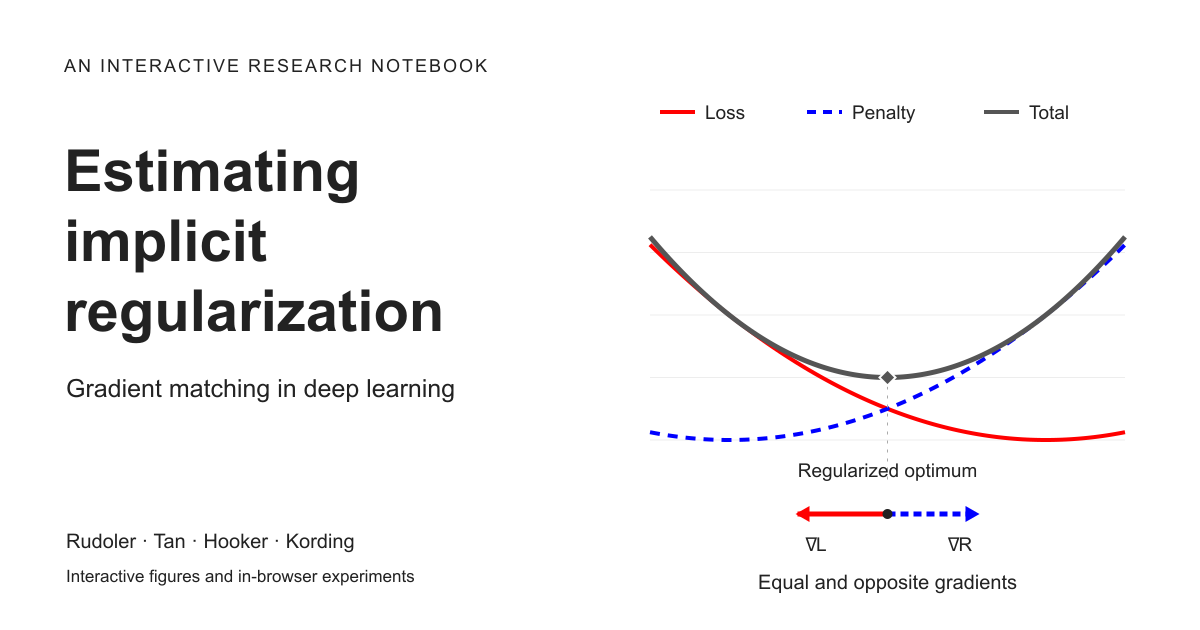
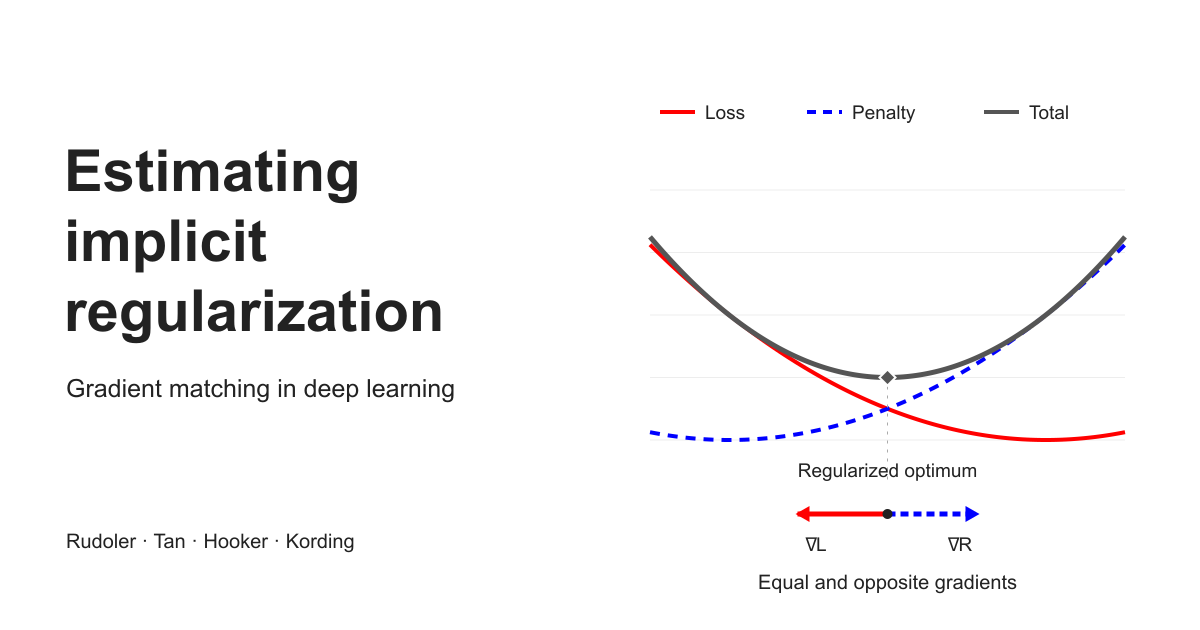
Remove self-referential copy and redundant figure text

Changed region(s): [[0.0617, 0.0905, 0.4008, 0.1206], [0.0617, 0.9048, 0.3392, 0.9349]]

diff --git a/site/index.html b/site/index.html
@@ -2,12 +2,12 @@
 <html lang="en">
 <head>
 <meta charset="utf-8"><meta name="viewport" content="width=device-width,initial-scale=1">
-<meta name="description" content="An interactive guide to estimating implicit regularization: balance gradients, explore a loss landscape, and recover an explicit penalty in a neural network.">
+<meta name="description" content="Estimating explicit and implicit regularization by matching loss and regularizer gradients.">
 <title>Estimating implicit regularization in deep learning</title>
 <link rel="canonical" href="https://jrudoler.com/estimating-implicit-regularization/">
 <meta property="og:type" content="website">
 <meta property="og:title" content="Estimating implicit regularization in deep learning">
-<meta property="og:description" content="Explore how gradient matching estimates regularization through interactive figures and neural networks that train in your browser.">
+<meta property="og:description" content="Gradient matching estimates regularization parameters and tests whether an explicit penalty reproduces learned weights.">
 <meta property="og:url" content="https://jrudoler.com/estimating-implicit-regularization/">
 <meta property="og:image" content="https://jrudoler.com/estimating-implicit-regularization/assets/social-preview.png">
 <meta property="og:image:width" content="1200">
@@ -15,7 +15,7 @@
 <meta property="og:image:alt" content="Loss, penalty, and total objective curves, with equal and opposite gradients at the regularized optimum.">
 <meta name="twitter:card" content="summary_large_image">
 <meta name="twitter:title" content="Estimating implicit regularization in deep learning">
-<meta name="twitter:description" content="An interactive research notebook on gradient matching and regularization.">
+<meta name="twitter:description" content="Estimating explicit and implicit regularization from model weights and loss gradients.">
 <meta name="twitter:image" content="https://jrudoler.com/estimating-implicit-regularization/assets/social-preview.png">
 <meta name="twitter:image:alt" content="Loss and penalty gradients cancel at the minimum of their combined objective.">
 
@@ -26,19 +26,16 @@
 <header class="masthead"><a class="wordmark" href="#">IMPLICIT REGULARIZATION</a><a href="https://github.com/jrudoler/estimating-implicit-regularization">Code <span aria-hidden="true">↗</span></a></header>
 <main>
 <section class="hero">
-<div class="eyebrow">ESTIMATING IMPLICIT REGULARIZATION IN DEEP LEARNING</div>
 <h1>Estimating implicit regularization in deep learning</h1>
 <p class="dek">Information about implicit regularization is embedded in the dynamics of learning. We use gradients of the loss and a proposed regularizer to estimate its unknown parameters.</p>
 <div class="byline">Joseph H. Rudoler · Kevin Tan · Giles Hooker · Konrad P. Kording</div>
-<a class="start-link" href="#balance">Explore gradient matching <span aria-hidden="true">↓</span></a>
-<div class="hero-equation" aria-label="The gradient of the loss plus the gradient of the regularizer equals zero"><span class="loss">∇L</span><span>+</span><span class="reg">∇R</span><span>=</span><span class="total">0</span></div>
 </section>
-<div class="opening-prose"><p>We often explicitly regularize models, adding constraints that can improve generalization. We also implicitly regularize through algorithmic and architectural choices, such as early stopping or dropout. Theory can characterize these effects in simplified settings, but complex networks raise the need for empirical estimation and validation.</p><p>Our task is to find a mathematically expressible regularizer such that explicitly optimizing the empirical loss augmented by that regularizer mimics an implicitly biased procedure optimizing the loss alone. Given a parametric family of regularizers, we seek to estimate its parameters. The examples below develop this gradient-matching approach, first for known explicit penalties and then for early stopping.</p></div>
+<div class="opening-prose"><p>We often explicitly regularize models, adding constraints that can improve generalization. We also implicitly regularize through algorithmic and architectural choices, such as early stopping or dropout. Theory can characterize these effects in simplified settings, but complex networks raise the need for empirical estimation and validation.</p><p>Our task is to find a mathematically expressible regularizer such that explicitly optimizing the empirical loss augmented by that regularizer mimics an implicitly biased procedure optimizing the loss alone. Given a parametric family of regularizers, we seek to estimate its parameters.</p></div>
 <nav class="chapter-nav" aria-label="Chapters"><a href="#balance">01 / Balancing objective functions</a><a href="#inverse">02 / Estimating the penalty</a><a href="#network">03 / Recovering explicit regularization</a><a href="#early-stopping">04 / Implicit regularization</a></nav>
 <section id="balance" class="chapter">
-<div class="section-intro"><div class="eyebrow">01 — BALANCING OBJECTIVE FUNCTIONS</div><h2>Regularization changes the optimum.</h2><p>Regularization modifies the objective function, leading to different solutions than strictly minimizing the empirical loss. In this example, an L₂ penalty favors smaller weights. At the regularized minimum, its gradient counteracts the nonzero loss gradient. This relationship is the starting point for estimation.</p></div>
+<div class="section-intro"><div class="eyebrow">01 — BALANCING OBJECTIVE FUNCTIONS</div><h2>Regularization changes the optimum.</h2><p>Regularization modifies the objective function, leading to different solutions than strictly minimizing the empirical loss. In this example, an L₂ penalty favors smaller weights. At the regularized minimum, its gradient counteracts the nonzero loss gradient.</p></div>
 <div class="lab balance-lab">
-<div class="lab-top"><div><span class="live-dot"></span> Figure 1 · Loss, L₂ penalty, and their sum <span class="subtle">/ one parameter</span></div><div class="legend"><span class="loss"><i class="legend-key" aria-hidden="true"></i>Loss</span><span class="reg"><i class="legend-key" aria-hidden="true"></i>Penalty</span><span class="total"><i class="legend-key" aria-hidden="true"></i>Total</span></div></div>
+<div class="lab-top"><div>Figure 1 · Loss, L₂ penalty, and their sum <span class="subtle">/ one parameter</span></div><div class="legend"><span class="loss"><i class="legend-key" aria-hidden="true"></i>Loss</span><span class="reg"><i class="legend-key" aria-hidden="true"></i>Penalty</span><span class="total"><i class="legend-key" aria-hidden="true"></i>Total</span></div></div>
 <div class="plot-wrap"><canvas id="balance-chart" aria-label="Loss, regularization, and their sum as functions of one parameter. Drag to inspect a parameter value." role="img"></canvas></div>
 <div class="gradient-panel"><div class="gradient-heading">Gradients at the selected point <span>Arrow length uses the same scale for both gradients.</span></div><canvas id="gradient-chart" role="img" aria-label="Loss, penalty, and net gradients shown as labeled horizontal arrows on a shared scale. Opposing equal arrows cancel."></canvas></div>
 <div class="control-grid"><label>Penalty strength <output id="lambda-value">0.50</output><input aria-label="Penalty strength" id="lambda" type="range" min="0" max="2" step="0.01" value="0.5"></label><label>Inspect parameter θ <output id="theta-value">1.00</output><input aria-label="Inspect parameter theta" id="theta" type="range" min="-1" max="3" step="0.01" value="1"></label><div class="landscape-actions"><button id="find-balance" class="primary">Find the balance <span aria-hidden="true">→</span></button><button id="random-balance" class="secondary">Random initialization</button></div></div>
@@ -76,12 +73,12 @@
 <p>For the reference update −η∇L(θₜ), rearranging Δθₜ ≈ −η[∇L(θₜ) + ∇R(θₜ; Λ)] gives:</p>
 <div class="display-equation"><math display="block" aria-label="The regularizer gradient is approximately minus the observed update divided by the learning rate minus the loss gradient"><mrow><msub><mi>∇</mi><mi>θ</mi></msub><mi>R</mi><mo>(</mo><msub><mi>θ</mi><mi>t</mi></msub><mo>;</mo><mi>Λ</mi><mo>)</mo><mo>≈</mo><mo>−</mo><mfrac><mrow><mi>Δ</mi><msub><mi>θ</mi><mi>t</mi></msub></mrow><mi>η</mi></mfrac><mo>−</mo><msub><mi>∇</mi><mi>θ</mi></msub><mi>L</mi><mo>(</mo><msub><mi>θ</mi><mi>t</mi></msub><mo>)</mo></mrow></math></div>
 <p>Here Δθₜ = θₜ₊₁ − θₜ and η is the step size. We can fit the same coefficient across several updates, or estimate a changing coefficient at each step. Setting Δθₜ ≈ 0 recovers the endpoint-matching condition.</p>
-<p>The reference must match the question. Comparing ordinary full-batch GD with its own update −η∇L gives zero discrepancy. To study the effect of finite GD steps, the paper instead compares a discrete step with continuous gradient flow over the same time interval. The early-stopping interactive below uses <em>endpoint matching</em> at different iterates; it does not fit these update discrepancies.</p>
+<p>The reference must match the question. Comparing ordinary full-batch GD with its own update −η∇L gives zero discrepancy. To study the effect of finite GD steps, the paper instead compares a discrete step with continuous gradient flow over the same time interval. Figure 5 uses <em>endpoint matching</em> at different iterates; it does not fit these update discrepancies.</p>
 </div></details>
 <section id="landscape" class="method-subsection">
-<div class="section-intro"><h3>Gradient matching in multiple dimensions.</h3><p>A single slope becomes a vector. At the regularized optimum, the loss and penalty gradients point in opposite directions with equal magnitude. The selected point starts at the loss minimum. Click “Go to optimum” to move it to the minimum of the combined objective in both views. Change the penalty or click the contour plot to explore another point.</p></div>
+<div class="section-intro"><h3>Gradient matching in multiple dimensions.</h3><p>A single slope becomes a vector. At the regularized optimum, the loss and penalty gradients point in opposite directions with equal magnitude. The selected point starts at the loss minimum. Click “Go to optimum” to move it to the minimum of the combined objective in both views. Click the contour plot to select a point.</p></div>
 <div class="lab">
-<div class="lab-top"><span>Figure 3 · Two parameters <span class="subtle">/ linked views</span></span><div class="legend"><span class="loss"><i class="legend-key" aria-hidden="true"></i>∇L</span><span class="reg"><i class="legend-key" aria-hidden="true"></i>∇R</span><span class="total"><i class="legend-key" aria-hidden="true"></i>Net</span></div></div>
+<div class="lab-top"><span>Figure 3 · Two parameters </span><div class="legend"><span class="loss"><i class="legend-key" aria-hidden="true"></i>∇L</span><span class="reg"><i class="legend-key" aria-hidden="true"></i>∇R</span><span class="total"><i class="legend-key" aria-hidden="true"></i>Net</span></div></div>
 <div class="landscape-layers"><fieldset><legend>Show landscapes in both views</legend><label class="loss"><input id="show-loss" type="checkbox"> Loss L (solid)</label><label class="reg"><input id="show-penalty" type="checkbox"> Penalty R (dashed)</label><label class="total"><input id="show-total" type="checkbox" checked> Total L + R (thick)</label></fieldset><label>Overlay opacity α <output id="landscape-alpha-value">0.55</output><input id="landscape-alpha" aria-label="Landscape opacity" type="range" min="0.1" max="1" step="0.05" value="0.55"></label></div>
 <div class="landscape-plots"><div class="plot-wrap"><span class="plot-label">CONTOURS <small>click to move the point</small></span><canvas id="contour-chart" role="img" aria-label="Selected loss, penalty, and total contours with uphill gradient vectors."></canvas></div><div class="plot-wrap"><span class="plot-label">SURFACES <small>drag to rotate · same selected point</small></span><canvas id="surface-chart" role="img" aria-label="Rotatable loss, penalty, and total wireframe surfaces with shared height scale."></canvas></div></div>
 <div class="control-grid landscape-controls"><label>Penalty λ <output id="lambda2-value"></output><input aria-label="Landscape penalty strength" id="lambda2" type="range" min="0" max="2" step="0.01" value="0.5"></label><label>Loss elongation <output id="stretch-value"></output><input aria-label="Loss elongation" id="stretch" type="range" min="1" max="6" step="0.1" value="3"></label><label>Loss rotation <output id="angle-value"></output><input aria-label="Loss rotation in degrees" id="angle" type="range" min="0" max="180" step="1" value="34"></label><div class="landscape-actions"><button id="snap2" class="primary">Go to optimum</button><button id="reset2" class="secondary">Start at loss minimum</button><button id="random-landscape" class="secondary">Random initialization</button></div></div>
@@ -96,25 +93,25 @@
 <div class="section-intro"><div class="eyebrow">03 — RECOVERING EXPLICIT REGULARIZATION</div><h2>Recovering an L₂ penalty in a neural network.</h2><p>Before estimating implicit effects, we test whether the method recovers known explicit regularization. Train a small network on noisy samples of a curve, using tanh by default or ReLU for piecewise-linear predictions. We train with an explicit L₂ penalty and withhold its coefficient from the estimator. The estimate uses only the weights and the gradient of the <em>unregularized</em> training loss. During training, this endpoint estimate may be inaccurate because the gradients have not yet reached a balance.</p></div>
 <p class="small-note">This is a simplified version of the paper’s explicit elastic-net recovery experiment. Here we estimate one L₂ coefficient in a small, single-input network. The paper jointly estimates smoothed L₁ and L₂ coefficients in a 200-unit ReLU network with 10 inputs, across repeated datasets and penalty settings.</p>
 <div class="lab network-lab">
-<div class="lab-top"><span><span class="live-dot"></span> Figure 4 · Explicit L₂ penalty recovery</span><span class="subtle" id="network-summary">1 input → 16 tanh units → 1 output · 49 parameters</span></div>
-<div class="network-layout"><div class="plot-wrap"><canvas id="network-chart" role="img" aria-label="Training samples, the noiseless target function, and the neural network's current prediction."></canvas><div class="legend chart-legend"><span class="data-color">● Training data</span><span class="subtle">┄ Target</span><span class="total">━ Network</span></div></div><div class="experiment-panel"><div class="eyebrow">Estimated regularization</div><div class="estimate-big" id="estimate">—</div><p class="metric-caption">estimated penalty strength</p><div class="metric-row"><span>True λ</span><strong id="true-lambda">0.0150</strong></div><div class="metric-row"><span>Gradient explained</span><strong id="explained">—</strong></div><div class="meter"><div id="explained-meter"></div></div><div class="metric-row"><span>Training MSE</span><strong id="train-loss">—</strong></div><div class="metric-row"><span>Net gradient norm</span><strong id="stationarity">—</strong></div><p id="recovery-note" class="small-note">Watch the estimate settle as the network approaches a stationary point.</p></div></div>
+<div class="lab-top"><span>Figure 4 · Explicit L₂ penalty recovery</span><span class="subtle" id="network-summary">1 input → 16 tanh units → 1 output · 49 parameters</span></div>
+<div class="network-layout"><div class="plot-wrap"><canvas id="network-chart" role="img" aria-label="Training samples, the noiseless target function, and the neural network's current prediction."></canvas><div class="legend chart-legend"><span class="data-color">● Training data</span><span class="subtle">┄ Target</span><span class="total">━ Network</span></div></div><div class="experiment-panel"><div class="eyebrow">Estimated λ</div><div class="estimate-big" id="estimate">—</div><div class="metric-row"><span>True λ</span><strong id="true-lambda">0.0150</strong></div><div class="metric-row"><span>Gradient explained</span><strong id="explained">—</strong></div><div class="meter"><div id="explained-meter"></div></div><div class="metric-row"><span>Training MSE</span><strong id="train-loss">—</strong></div><div class="metric-row"><span>Net gradient norm</span><strong id="stationarity">—</strong></div><p id="recovery-note" class="small-note"></p></div></div>
 <div class="training-progress"><div id="training-bar"></div></div>
 <div class="network-settings"><label>Hidden-layer width<select id="network-width"><option value="16">16 units</option><option value="32">32 units</option><option value="64">64 units</option></select></label><label>Activation<select id="network-activation"><option value="relu">ReLU (piecewise linear)</option><option value="tanh" selected>tanh (smooth)</option></select></label><label>Penalty strength<select id="penalty-choice"><option value="0.005">Weak (0.005)</option><option value="0.015" selected>Moderate (0.015)</option><option value="0.05">Strong (0.05)</option></select></label><label>Data seed<select id="seed"><option>7</option><option>19</option><option>42</option></select></label></div>
 <p id="network-shape-note" class="small-note"></p>
 <div class="experiment-actions"><button id="train" class="primary">Train the network <span aria-hidden="true">→</span></button><button id="reset" class="secondary">Reset</button><button id="random-network" class="secondary">Random initialization</button></div>
 <p class="point-status">Network initialization seed: <output id="init-seed-value">7</output>. Random initialization keeps the data and penalty fixed.</p>
-<p id="train-status" role="status" class="train-status">Ready. Training runs locally; training data stays in your browser.</p>
+<p id="train-status" role="status" class="train-status"></p>
 </div>
 <details class="methods"><summary>Model, training, and estimator</summary><div><p>We use mean squared error L = (1/n) Σ(fθ(xᵢ) − yᵢ)² and R = λ‖θ‖², penalizing all parameters, including biases (3 × width + 1 parameters). Full-batch gradient descent runs for up to 20,000 steps. The learning rate is 0.04 × 16 / width (0.04, 0.02, or 0.01) to keep wider networks stable. The data and initialization are reproducible for each seed.</p><p class="formula">λ̂ = max(0, −θᵀ∇L / (2‖θ‖²))</p><p>This is a nonnegative least-squares projection of −∇L onto 2θ. “Gradient explained” is 1 − ‖∇L + 2λ̂θ‖² / ‖∇L‖². It is a fit diagnostic, not predictive R². Near-zero weights make the coefficient unidentifiable; a near-zero loss gradient makes the explained fraction uninformative. We display a dash for unavailable diagnostics.</p><p>For ReLU, we use a zero derivative at a kink. Tanh uses its smooth derivative, 1 − tanh²(z). Finite training time and nonsmoothness can leave a residual even when the loss appears stable. This experiment demonstrates explicit-penalty recovery, not proof that an arbitrary implicit bias is ridge regularization.</p></div></details>
 </section>
 <section id="early-stopping" class="chapter">
 <div class="section-intro"><div class="eyebrow">04 — IMPLICIT REGULARIZATION</div><h2>Estimating the regularization from stopping early.</h2>
-<p>Theory gives us a concrete example of implicit regularization: for ordinary least squares (OLS), gradient descent stopped after a finite number of steps from zero initialization has the same solution as an explicitly regularized regression. The equivalent penalty is quadratic, R(θ) = θᵀΛ⁽ᵗ⁾θ, with a closed-form matrix Λ⁽ᵗ⁾ determined by the data, step size, and stopping time. This is why we estimate a matrix here: theory supplies a known target against which to test gradient matching.</p>
+<p>Theory gives us a concrete example of implicit regularization: for ordinary least squares (OLS), gradient descent stopped after a finite number of steps from zero initialization has the same solution as an explicitly regularized regression. The equivalent penalty is quadratic, R(θ) = θᵀΛ⁽ᵗ⁾θ, with a closed-form matrix Λ⁽ᵗ⁾ determined by the data, step size, and stopping time. This matrix is the target for gradient matching.</p>
 <p>Following Figure 4 of the paper, we ask two different questions: can we recover that theoretical matrix, and can an estimated penalty recover the original model weights? A diagonal estimate from one endpoint can recover the weights while differing from theory (panel C). A full symmetric estimate uses multiple endpoints to recover the matrix (panel B). A single ridge coefficient provides a heuristic summary of how regularization decays over training (panel E).</p></div>
 <details class="methods"><summary>The theoretical quadratic penalty and closed-form OLS solution</summary><div>
 <p>Let H = XᵀX/n = V diag(hᵢ)Vᵀ and use the loss L(θ) = ‖Xθ − y‖²/(2n). Full-batch gradient descent starts at zero with step size η satisfying 0 &lt; ηhᵢ &lt; 1. At step t ≥ 1, its weights minimize L(θ) + θᵀΛ⁽ᵗ⁾θ, where</p>
 <p class="equation">Λ⁽ᵗ⁾ = ½ V diag[hᵢ(1 − ηhᵢ)ᵗ / (1 − (1 − ηhᵢ)ᵗ)] Vᵀ.</p>
-<p>The eigenvectors give the penalty’s directions, and its eigenvalues decrease over training. The matrix is generally not diagonal in the original input coordinates. The factor ½ reflects this interactive’s half-MSE loss convention; the paper writes its theoretical penalty with the loss ‖Xθ − y‖²/n.</p>
+<p>The eigenvectors give the penalty’s directions, and its eigenvalues decrease over training. The matrix is generally not diagonal in the original input coordinates. The factor ½ reflects the half-MSE loss convention used here; the paper writes its theoretical penalty with the loss ‖Xθ − y‖²/n.</p>
 <p>For any estimated symmetric matrix Λ̂, the explicit solution is θ̂ᴿ = (H + 2Λ̂)⁻¹Xᵀy/n, provided H + 2Λ̂ is positive definite. We solve this system independently to test weight recovery. The estimator receives weights and loss gradients, not the theoretical matrix or its eigenvectors.</p>
 </div></details>
 <div class="lab">
@@ -122,14 +119,14 @@
 <div class="control-grid early-controls"><label>Training step <output id="early-step-value">20</output><input id="early-step" aria-label="Early stopping training step" type="range" min="1" max="400" step="1" value="20"></label><label>Candidate penalty<select id="early-family"><option value="diagonal">Diagonal · one endpoint (4C)</option><option value="full" selected>Full symmetric · multiple endpoints (4B)</option><option value="scalar">Scalar ridge · one coefficient (4E)</option></select></label><label>Hessian condition number<select id="early-condition"><option value="1">1 — equal curvature</option><option value="5" selected>5 — moderate curvature variation</option><option value="25">25 — unequal curvature</option><option value="100">100 — unequal curvature</option></select></label></div><label id="early-endpoints-control" class="early-endpoint-control" hidden>Training endpoints <output id="early-endpoints-value">10</output><input id="early-endpoints" aria-label="Number of training endpoints" type="range" min="1" max="20" value="10"><span class="small-note">Same X and stopping step; independently sampled coefficients and noise. The first endpoint is shown in the weight plot.</span></label><div class="experiment-actions"><button id="early-play" class="primary">Play training</button><button id="early-reset" class="secondary">Reset to zero initialization</button><button id="early-random" class="secondary">Random initialization</button></div>
 <div class="early-matrix-intro"><h3>Recovering the regularization matrix.</h3><p class="small-note">Write the quadratic penalty as R(θ) = θᵀΛθ. Each square below is an entry Λᵢⱼ, in the original ten input coordinates. Diagonal entries penalize individual weights; off-diagonal entries couple pairs of weights. The theoretical matrix comes from the known early-stopping formula; the estimate comes from matching gradients. With one ridge coefficient, the estimated matrix is λI.</p></div>
 <div class="early-heatmaps"><div><span class="plot-label">THEORETICAL Λ</span><canvas id="early-theory" role="img" aria-label="Theoretical early-stopping penalty matrix, with rows and columns numbered by input coordinate."></canvas></div><div><span class="plot-label">ESTIMATED Λ</span><canvas id="early-estimated" role="img" aria-label="Penalty matrix estimated by gradient matching, using the same color scale as theory."></canvas></div><div><span class="plot-label">ESTIMATE − THEORY</span><canvas id="early-difference" role="img" aria-label="Matrix estimation error on the shared color scale. White indicates zero error."></canvas></div></div>
-<p id="early-matrix-scale" class="small-note"></p><p class="small-note">Rows and columns both index weights 1–10. All three maps share a signed, linear color scale: a white difference map means agreement. The numerical error below the maps reveals differences too small to see.</p>
-<div class="early-plots"><div class="plot-wrap"><span class="plot-label">DOES THE PENALTY RECOVER THE WEIGHTS?</span><canvas id="early-coefficients" role="img" aria-label="Each point compares one early-stopped weight on the horizontal axis with its recovered value on the vertical axis. Points on the diagonal match exactly."></canvas><div class="legend"><span class="reg">□ One model weight</span><span>┄ Exact agreement</span></div><p class="small-note">Each of the ten points is one model weight. Its horizontal position is the value when training stops; its vertical position is the solution with the fitted explicit penalty. Points on the diagonal mean the two values agree. Try one ridge coefficient to see where recovery fails.</p></div><div class="plot-wrap"><span class="plot-label">SCALAR RIDGE SUMMARY OVER TRAINING (4E)</span><canvas id="early-penalties" role="img" aria-label="A separate single-coefficient ridge estimate over 400 training steps, regardless of which matrix estimator is selected."></canvas><label class="small-note"><input type="checkbox" id="early-log"> Logarithmic penalty axis (inspect small values)</label><p id="early-penalty-caption" class="small-note"></p></div></div>
+<p id="early-matrix-scale" class="small-note"></p><p class="small-note">Rows and columns index weights 1–10. White in the difference map indicates agreement.</p>
+<div class="early-plots"><div class="plot-wrap"><span class="plot-label">DOES THE PENALTY RECOVER THE WEIGHTS?</span><canvas id="early-coefficients" role="img" aria-label="Each point compares one early-stopped weight on the horizontal axis with its recovered value on the vertical axis. Points on the diagonal match exactly."></canvas><div class="legend"><span class="reg">□ One model weight</span><span>┄ Exact agreement</span></div><p class="small-note">Each point compares one stopped weight with its explicitly regularized solution. Points on the diagonal indicate exact recovery.</p></div><div class="plot-wrap"><span class="plot-label">SCALAR RIDGE SUMMARY OVER TRAINING (4E)</span><canvas id="early-penalties" role="img" aria-label="A separate single-coefficient ridge estimate over 400 training steps, regardless of which matrix estimator is selected."></canvas><label class="small-note"><input type="checkbox" id="early-log"> Logarithmic penalty axis (inspect small values)</label><p id="early-penalty-caption" class="small-note"></p></div></div>
 <div class="inverse-metrics"><span>Gradient explained: <strong id="early-fit"></strong></span><span>Weight recovery error ‖θ̂ − θ̂ᴿ‖₂: <strong id="early-weight-error"></strong></span><span>Net gradient norm: <strong id="early-residual"></strong></span></div>
 <p id="early-status" class="train-status" role="status"></p><p id="early-initialization" class="small-note"></p>
 <div class="lab-foot">The original training uses no penalty. The recovered weights come from a separate, exact solution with the estimated penalty. At every training step we fit a new penalty to that step’s weights; the right plot shows these estimates, not a penalty applied during training. Random initialization changes only the starting weights; the zero-start theoretical reference is then unavailable. Signed diagonal and full-matrix estimates are allowed; weight recovery is shown only when the fitted total objective has a unique minimum.</div>
 </div>
 <details class="methods"><summary>Estimation methods and relation to the paper</summary><div>
-<p>This is a small browser demonstration of the paper’s estimators, using 160 observations and 10 inputs rather than the paper’s 1000 observations. We construct X with Hessian eigenvalues ranging from 2 to 2/κ, use coefficient seed 7 and Gaussian noise with standard deviation 0.3, and run full-batch GD with η = 0.2. Changing κ rebuilds the design. All endpoints use the same X and the same selected training step; only the true coefficients and noise are resampled.</p>
+<p>We use 160 observations and 10 inputs; the paper uses 1000 observations. We construct X with Hessian eigenvalues ranging from 2 to 2/κ, use coefficient seed 7 and Gaussian noise with standard deviation 0.3, and run full-batch GD with η = 0.2. Changing κ rebuilds the design. All endpoints use the same X and the same selected training step; only the true coefficients and noise are resampled.</p>
 <p><strong>Diagonal, panel C:</strong> fit ten signed coefficients in the original input coordinates, Λ̂ᵢᵢ = −∂ᵢL/(2θ̂ᵢ). These are not coefficients in the Hessian eigenbasis. A zero weight makes its coefficient unidentifiable. Even with an exact gradient match, a unique minimum requires H + 2Λ̂ to be positive definite; the display checks this condition.</p>
 <p><strong>Full symmetric, panel B:</strong> fit all 55 independent entries by minimizing Σₖ‖2Λ̂θ̂ₖ + ∇Lₖ‖² over symmetric matrices. If the system is underdetermined, we select the solution with smallest Frobenius norm. Ten linearly independent endpoints identify the matrix; fewer leave unobserved directions. No theoretical eigenvectors are supplied. The endpoint slider illustrates fixed-step recovery as in B; it does not reproduce panel D’s variable stopping times and confidence bands.</p>
 <p><strong>Scalar ridge, panel E:</strong> fit Λ̂ = λ̂I, using λ̂ = max(0, −θ̂ᵀ∇L/(2‖θ̂‖²)). The right plot always shows this separate scalar summary, so it has the same meaning under every matrix selection. Its decline need not imply that scalar ridge recovers the full matrix or the stopped weights.</p>
@@ -144,6 +141,5 @@
 <p>The broader aim is to empirically validate theoretical results and study implicit regularization in complex networks that evade mathematical analysis. Even heuristic estimates can provide a diagnostic of how training configurations change the dynamics of learning. This could complement existing measures such as validation loss and weight or gradient norms; it is a starting point for characterizing implicit regularization, rather than a complete account of generalization.</p>
 <a class="primary link-button" href="https://arxiv.org/abs/2605.05436">Read the paper on arXiv ↗</a></section>
 </main>
-<footer><span>Estimating Implicit Regularization in Deep Learning</span><span>Interactive examples · deterministic seeds · local computation</span></footer>
-<noscript>This essay’s experiments need JavaScript. The explanatory text remains available without it.</noscript>
+<noscript>Enable JavaScript to use the figure controls.</noscript>
 </body></html>

diff --git a/site/style.css b/site/style.css
@@ -1093,3 +1093,5 @@ footer  {
 .early-endpoint-control { display:block; max-width:600px; margin:18px 0; }
 .early-endpoint-control[hidden] { display:none; }
 .early-endpoint-control input { display:block; width:100%; margin:10px 0; }
+
+#train-status:empty, #recovery-note:empty { display:none; }
